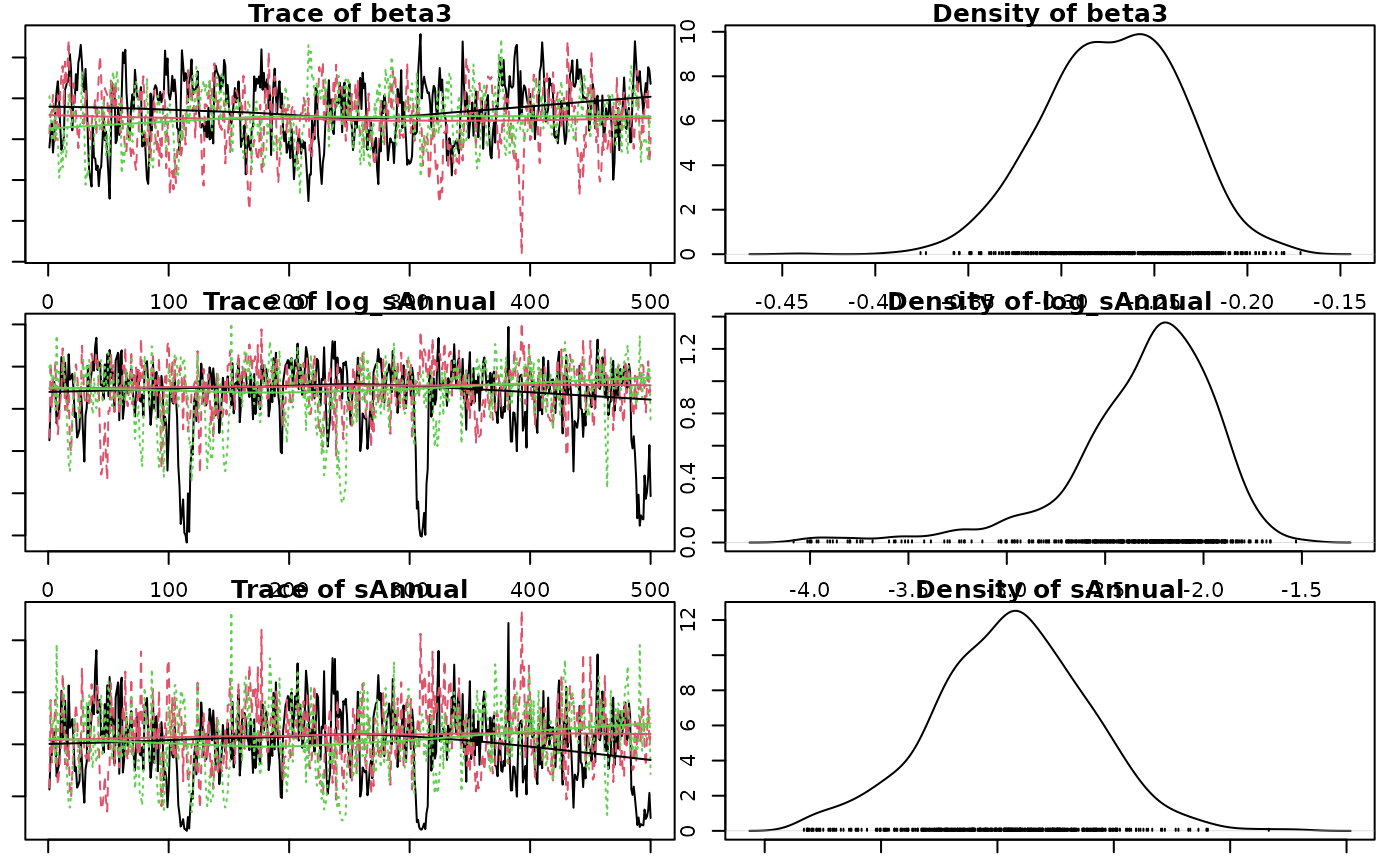
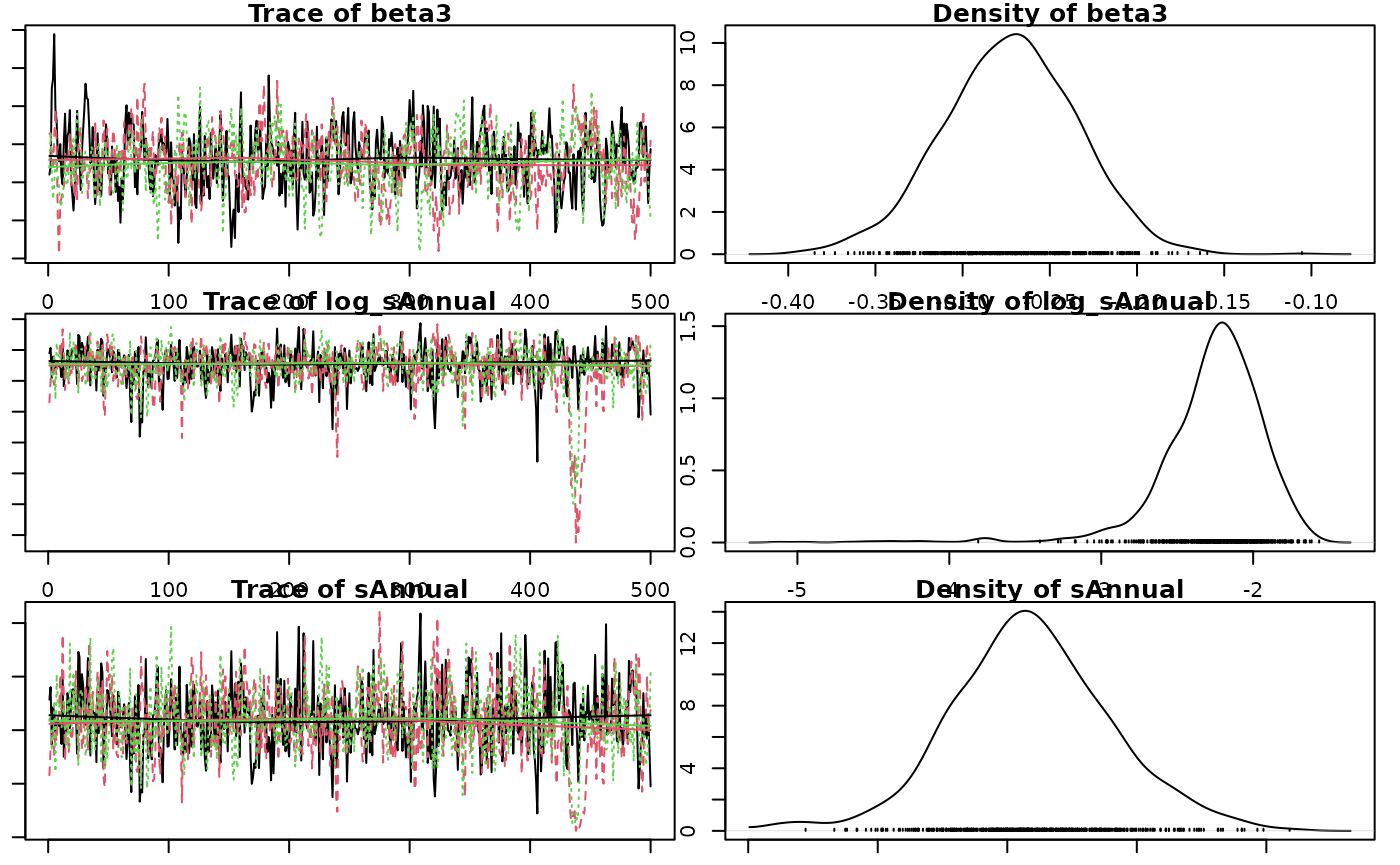
Built site for jmbr@0.0.0.9139: 1f1a369

diff --git a/articles/jmbr.html b/articles/jmbr.html
@@ -24,7 +24,7 @@
 
     <a class="navbar-brand me-2" href="../index.html">jmbr</a>
 
-    <small class="nav-text text-muted me-auto" data-bs-toggle="tooltip" data-bs-placement="bottom" title="">0.0.0.9138</small>
+    <small class="nav-text text-muted me-auto" data-bs-toggle="tooltip" data-bs-placement="bottom" title="">0.0.0.9139</small>
 
 
     <button class="navbar-toggler" type="button" data-bs-toggle="collapse" data-bs-target="#navbar" aria-controls="navbar" aria-expanded="false" aria-label="Toggle navigation">
@@ -236,7 +236,7 @@ value and discarding all other values.</p>
 <span><span class="co">#&gt; <span style="color: #00BBBB;">ℹ</span> Please use the `code` argument instead.</span></span>
 <span><span class="co">#&gt; <span style="color: #00BBBB;">ℹ</span> Passing a string to model() is deprecated. Use model(code = ...) or</span></span>
 <span><span class="co">#&gt;   model(mb_code("..."), ...) instead.</span></span>
-<span><span class="co">#&gt; <span style="color: #555555;">This warning is displayed once every 8 hours.</span></span></span>
+<span><span class="co">#&gt; <span style="color: #555555;">This warning is displayed once per session.</span></span></span>
 <span><span class="co">#&gt; <span style="color: #555555;">Call `lifecycle::last_lifecycle_warnings()` to see where this warning was</span></span></span>
 <span><span class="co">#&gt; <span style="color: #555555;">generated.</span></span></span>
 <span></span>
@@ -285,14 +285,14 @@ value and discarding all other values.</p>
 <span><span class="co">#&gt; <span style="color: #949494;"># A tibble: 1 × 8</span></span></span>
 <span><span class="co">#&gt;       n     K nchains niters nthin   ess  rhat converged</span></span>
 <span><span class="co">#&gt;   <span style="color: #949494; font-style: italic;">&lt;int&gt;</span> <span style="color: #949494; font-style: italic;">&lt;int&gt;</span>   <span style="color: #949494; font-style: italic;">&lt;int&gt;</span>  <span style="color: #949494; font-style: italic;">&lt;int&gt;</span> <span style="color: #949494; font-style: italic;">&lt;int&gt;</span> <span style="color: #949494; font-style: italic;">&lt;int&gt;</span> <span style="color: #949494; font-style: italic;">&lt;dbl&gt;</span> <span style="color: #949494; font-style: italic;">&lt;lgl&gt;</span>    </span></span>
-<span><span class="co">#&gt; <span style="color: #BCBCBC;">1</span>    40     6       3    500    10   255  1.02 TRUE</span></span>
+<span><span class="co">#&gt; <span style="color: #BCBCBC;">1</span>    40     6       3    500    10    69  2.23 FALSE</span></span>
 <span><span class="co">#&gt; Warning in value[[3L]](cond): beep() could not play the sound due to the following error:</span></span>
 <span><span class="co">#&gt; Error in play.default(x, rate, ...): no audio drivers are available</span></span>
 <span><span class="va">analysis</span> <span class="op">&lt;-</span> <span class="fu"><a href="https://rdrr.io/pkg/embr/man/reanalyse.html" class="external-link">reanalyse</a></span><span class="op">(</span><span class="va">analysis</span><span class="op">)</span></span>
 <span><span class="co">#&gt; <span style="color: #949494;"># A tibble: 1 × 8</span></span></span>
 <span><span class="co">#&gt;       n     K nchains niters nthin   ess  rhat converged</span></span>
 <span><span class="co">#&gt;   <span style="color: #949494; font-style: italic;">&lt;int&gt;</span> <span style="color: #949494; font-style: italic;">&lt;int&gt;</span>   <span style="color: #949494; font-style: italic;">&lt;int&gt;</span>  <span style="color: #949494; font-style: italic;">&lt;int&gt;</span> <span style="color: #949494; font-style: italic;">&lt;int&gt;</span> <span style="color: #949494; font-style: italic;">&lt;int&gt;</span> <span style="color: #949494; font-style: italic;">&lt;dbl&gt;</span> <span style="color: #949494; font-style: italic;">&lt;lgl&gt;</span>    </span></span>
-<span><span class="co">#&gt; <span style="color: #BCBCBC;">1</span>    40     6       3    500    10   255  1.02 TRUE</span></span>
+<span><span class="co">#&gt; <span style="color: #BCBCBC;">1</span>    40     6       3    500    20   413  1.01 TRUE</span></span>
 <span><span class="co">#&gt; Warning in value[[3L]](cond): beep() could not play the sound due to the following error:</span></span>
 <span><span class="co">#&gt; Error in play.default(x, rate, ...): no audio drivers are available</span></span></code></pre></div>
 <p><strong>Analysis Table:</strong></p>
@@ -328,7 +328,7 @@ between- and within-chain estimates for model parameters.
 <div class="sourceCode" id="cb10"><pre class="downlit sourceCode r">
 <code class="sourceCode R"><span><span class="fu"><a href="https://rdrr.io/r/graphics/par.html" class="external-link">par</a></span><span class="op">(</span>mar<span class="op">=</span><span class="fu"><a href="https://rdrr.io/r/base/c.html" class="external-link">c</a></span><span class="op">(</span><span class="fl">1</span>, <span class="fl">1</span>, <span class="fl">1</span>, <span class="fl">1</span><span class="op">)</span><span class="op">)</span></span>
 <span><span class="fu"><a href="https://rdrr.io/r/graphics/plot.default.html" class="external-link">plot</a></span><span class="op">(</span><span class="va">analysis</span><span class="op">)</span></span></code></pre></div>
-<p><img src="jmbr_files/figure-html/unnamed-chunk-11-1.png" class="r-plt" width="700"><img src="jmbr_files/figure-html/unnamed-chunk-11-2.png" class="r-plt" width="700"></p>
+<p><img src="jmbr_files/figure-html/unnamed-chunk-11-1.png" class="r-plt" alt="" width="700"><img src="jmbr_files/figure-html/unnamed-chunk-11-2.png" class="r-plt" alt="" width="700"></p>
 <p><strong>Coefficient Table</strong></p>
 <p>Summary table of the posterior probability distribution.</p>
 <div class="sourceCode" id="cb11"><pre class="downlit sourceCode r">
@@ -336,18 +336,18 @@ between- and within-chain estimates for model parameters.
 <span><span class="co">#&gt; Warning: The `simplify` argument of `coef()` must be TRUE as of mcmcr 0.4.1.</span></span>
 <span><span class="co">#&gt; <span style="color: #00BBBB;">ℹ</span> The deprecated feature was likely used in the <span style="color: #0000BB;">base</span> package.</span></span>
 <span><span class="co">#&gt;   Please report the issue to the authors.</span></span>
-<span><span class="co">#&gt; <span style="color: #555555;">This warning is displayed once every 8 hours.</span></span></span>
+<span><span class="co">#&gt; <span style="color: #555555;">This warning is displayed once per session.</span></span></span>
 <span><span class="co">#&gt; <span style="color: #555555;">Call `lifecycle::last_lifecycle_warnings()` to see where this warning was</span></span></span>
 <span><span class="co">#&gt; <span style="color: #555555;">generated.</span></span></span>
 <span><span class="co">#&gt; <span style="color: #949494;"># A tibble: 6 × 7</span></span></span>
 <span><span class="co">#&gt;   term        estimate     sd  zscore   lower   upper   pvalue</span></span>
 <span><span class="co">#&gt;   <span style="color: #949494; font-style: italic;">&lt;term&gt;</span>         <span style="color: #949494; font-style: italic;">&lt;dbl&gt;</span>  <span style="color: #949494; font-style: italic;">&lt;dbl&gt;</span>   <span style="color: #949494; font-style: italic;">&lt;dbl&gt;</span>   <span style="color: #949494; font-style: italic;">&lt;dbl&gt;</span>   <span style="color: #949494; font-style: italic;">&lt;dbl&gt;</span>    <span style="color: #949494; font-style: italic;">&lt;dbl&gt;</span></span></span>
-<span><span class="co">#&gt; <span style="color: #BCBCBC;">1</span> alpha         4.26   0.038<span style="text-decoration: underline;">4</span> 111.     4.19    4.34   0.000<span style="text-decoration: underline;">666</span></span></span>
-<span><span class="co">#&gt; <span style="color: #BCBCBC;">2</span> beta1         1.19   0.070<span style="text-decoration: underline;">9</span>  16.8    1.06    1.34   0.000<span style="text-decoration: underline;">666</span></span></span>
-<span><span class="co">#&gt; <span style="color: #BCBCBC;">3</span> beta2        -<span style="color: #BB0000;">0.018</span><span style="color: #BB0000; text-decoration: underline;">5</span> 0.030<span style="text-decoration: underline;">2</span>  -<span style="color: #BB0000;">0.627</span> -<span style="color: #BB0000;">0.080</span><span style="color: #BB0000; text-decoration: underline;">0</span>  0.039<span style="text-decoration: underline;">5</span> 0.536   </span></span>
-<span><span class="co">#&gt; <span style="color: #BCBCBC;">4</span> beta3        -<span style="color: #BB0000;">0.271</span>  0.036<span style="text-decoration: underline;">5</span>  -<span style="color: #BB0000;">7.46</span>  -<span style="color: #BB0000;">0.345</span>  -<span style="color: #BB0000;">0.206</span>  0.000<span style="text-decoration: underline;">666</span></span></span>
-<span><span class="co">#&gt; <span style="color: #BCBCBC;">5</span> log_sAnnual  -<span style="color: #BB0000;">2.24</span>   0.379   -<span style="color: #BB0000;">6.10</span>  -<span style="color: #BB0000;">3.31</span>   -<span style="color: #BB0000;">1.78</span>   0.000<span style="text-decoration: underline;">666</span></span></span>
-<span><span class="co">#&gt; <span style="color: #BCBCBC;">6</span> sAnnual       0.106  0.033<span style="text-decoration: underline;">1</span>   3.20   0.036<span style="text-decoration: underline;">7</span>  0.169  0.000<span style="text-decoration: underline;">666</span></span></span></code></pre></div>
+<span><span class="co">#&gt; <span style="color: #BCBCBC;">1</span> alpha         4.26   0.041<span style="text-decoration: underline;">2</span> 104.     4.18    4.34   0.000<span style="text-decoration: underline;">666</span></span></span>
+<span><span class="co">#&gt; <span style="color: #BCBCBC;">2</span> beta1         1.19   0.073<span style="text-decoration: underline;">2</span>  16.3    1.06    1.34   0.000<span style="text-decoration: underline;">666</span></span></span>
+<span><span class="co">#&gt; <span style="color: #BCBCBC;">3</span> beta2        -<span style="color: #BB0000;">0.018</span><span style="color: #BB0000; text-decoration: underline;">2</span> 0.031<span style="text-decoration: underline;">1</span>  -<span style="color: #BB0000;">0.586</span> -<span style="color: #BB0000;">0.080</span><span style="color: #BB0000; text-decoration: underline;">7</span>  0.042<span style="text-decoration: underline;">1</span> 0.547   </span></span>
+<span><span class="co">#&gt; <span style="color: #BCBCBC;">4</span> beta3        -<span style="color: #BB0000;">0.272</span>  0.038<span style="text-decoration: underline;">2</span>  -<span style="color: #BB0000;">7.14</span>  -<span style="color: #BB0000;">0.352</span>  -<span style="color: #BB0000;">0.202</span>  0.000<span style="text-decoration: underline;">666</span></span></span>
+<span><span class="co">#&gt; <span style="color: #BCBCBC;">5</span> log_sAnnual  -<span style="color: #BB0000;">2.22</span>   0.361   -<span style="color: #BB0000;">6.27</span>  -<span style="color: #BB0000;">3.05</span>   -<span style="color: #BB0000;">1.75</span>   0.000<span style="text-decoration: underline;">666</span></span></span>
+<span><span class="co">#&gt; <span style="color: #BCBCBC;">6</span> sAnnual       0.109  0.031<span style="text-decoration: underline;">2</span>   3.50   0.047<span style="text-decoration: underline;">4</span>  0.173  0.000<span style="text-decoration: underline;">666</span></span></span></code></pre></div>
 <p>The estimate is the <strong>median</strong> by default.</p>
 <p>The zscore is <span class="math inline">mean / sd</span>.</p>
 <div class="sourceCode" id="cb12"><pre class="downlit sourceCode r">
@@ -355,12 +355,12 @@ between- and within-chain estimates for model parameters.
 <span><span class="co">#&gt; <span style="color: #949494;"># A tibble: 6 × 5</span></span></span>
 <span><span class="co">#&gt;   term        estimate   lower   upper svalue</span></span>
 <span><span class="co">#&gt;   <span style="color: #949494; font-style: italic;">&lt;term&gt;</span>         <span style="color: #949494; font-style: italic;">&lt;dbl&gt;</span>   <span style="color: #949494; font-style: italic;">&lt;dbl&gt;</span>   <span style="color: #949494; font-style: italic;">&lt;dbl&gt;</span>  <span style="color: #949494; font-style: italic;">&lt;dbl&gt;</span></span></span>
-<span><span class="co">#&gt; <span style="color: #BCBCBC;">1</span> alpha         4.26    4.19    4.34   10.6  </span></span>
+<span><span class="co">#&gt; <span style="color: #BCBCBC;">1</span> alpha         4.26    4.18    4.34   10.6  </span></span>
 <span><span class="co">#&gt; <span style="color: #BCBCBC;">2</span> beta1         1.19    1.06    1.34   10.6  </span></span>
-<span><span class="co">#&gt; <span style="color: #BCBCBC;">3</span> beta2        -<span style="color: #BB0000;">0.018</span><span style="color: #BB0000; text-decoration: underline;">5</span> -<span style="color: #BB0000;">0.080</span><span style="color: #BB0000; text-decoration: underline;">0</span>  0.039<span style="text-decoration: underline;">5</span>  0.899</span></span>
-<span><span class="co">#&gt; <span style="color: #BCBCBC;">4</span> beta3        -<span style="color: #BB0000;">0.271</span>  -<span style="color: #BB0000;">0.345</span>  -<span style="color: #BB0000;">0.206</span>  10.6  </span></span>
-<span><span class="co">#&gt; <span style="color: #BCBCBC;">5</span> log_sAnnual  -<span style="color: #BB0000;">2.24</span>   -<span style="color: #BB0000;">3.31</span>   -<span style="color: #BB0000;">1.78</span>   10.6  </span></span>
-<span><span class="co">#&gt; <span style="color: #BCBCBC;">6</span> sAnnual       0.106   0.036<span style="text-decoration: underline;">7</span>  0.169  10.6</span></span></code></pre></div>
+<span><span class="co">#&gt; <span style="color: #BCBCBC;">3</span> beta2        -<span style="color: #BB0000;">0.018</span><span style="color: #BB0000; text-decoration: underline;">2</span> -<span style="color: #BB0000;">0.080</span><span style="color: #BB0000; text-decoration: underline;">7</span>  0.042<span style="text-decoration: underline;">1</span>  0.870</span></span>
+<span><span class="co">#&gt; <span style="color: #BCBCBC;">4</span> beta3        -<span style="color: #BB0000;">0.272</span>  -<span style="color: #BB0000;">0.352</span>  -<span style="color: #BB0000;">0.202</span>  10.6  </span></span>
+<span><span class="co">#&gt; <span style="color: #BCBCBC;">5</span> log_sAnnual  -<span style="color: #BB0000;">2.22</span>   -<span style="color: #BB0000;">3.05</span>   -<span style="color: #BB0000;">1.75</span>   10.6  </span></span>
+<span><span class="co">#&gt; <span style="color: #BCBCBC;">6</span> sAnnual       0.109   0.047<span style="text-decoration: underline;">4</span>  0.173  10.6</span></span></code></pre></div>
 <p>The s-value is the <strong>suprisal</strong> value, which is a
 measure of directionality with respect to zero.</p>
 <p>The s-value is zero (unsurprising) when <em>p-value</em> = 1.0 and
@@ -389,7 +389,7 @@ including the random effect of <code>Annual</code> held constant.</p>
 <span>  <span class="fu"><a href="https://ggplot2.tidyverse.org/reference/geom_path.html" class="external-link">geom_line</a></span><span class="op">(</span><span class="fu"><a href="https://ggplot2.tidyverse.org/reference/aes.html" class="external-link">aes</a></span><span class="op">(</span>y <span class="op">=</span> <span class="va">lower</span><span class="op">)</span>, linetype <span class="op">=</span> <span class="st">"dotted"</span><span class="op">)</span> <span class="op">+</span></span>
 <span>  <span class="fu"><a href="https://ggplot2.tidyverse.org/reference/geom_path.html" class="external-link">geom_line</a></span><span class="op">(</span><span class="fu"><a href="https://ggplot2.tidyverse.org/reference/aes.html" class="external-link">aes</a></span><span class="op">(</span>y <span class="op">=</span> <span class="va">upper</span><span class="op">)</span>, linetype <span class="op">=</span> <span class="st">"dotted"</span><span class="op">)</span> <span class="op">+</span></span>
 <span>  <span class="fu"><a href="https://ggplot2.tidyverse.org/reference/expand_limits.html" class="external-link">expand_limits</a></span><span class="op">(</span>y <span class="op">=</span> <span class="fl">0</span><span class="op">)</span></span></code></pre></div>
-<p><img src="jmbr_files/figure-html/unnamed-chunk-14-1.png" class="r-plt" width="700"></p>
+<p><img src="jmbr_files/figure-html/unnamed-chunk-14-1.png" class="r-plt" alt="" width="700"></p>
 <div class="section level3">
 <h3 id="predict">Predict<a class="anchor" aria-label="anchor" href="#predict"></a>
 </h3>

diff --git a/news/index.html b/news/index.html
@@ -7,7 +7,7 @@
 
     <a class="navbar-brand me-2" href="../index.html">jmbr</a>
 
-    <small class="nav-text text-muted me-auto" data-bs-toggle="tooltip" data-bs-placement="bottom" title="">0.0.0.9138</small>
+    <small class="nav-text text-muted me-auto" data-bs-toggle="tooltip" data-bs-placement="bottom" title="">0.0.0.9139</small>
 
 
     <button class="navbar-toggler" type="button" data-bs-toggle="collapse" data-bs-target="#navbar" aria-controls="navbar" aria-expanded="false" aria-label="Toggle navigation">
@@ -33,6 +33,13 @@
       <small>Source: <a href="https://github.com/poissonconsulting/jmbr/blob/main/NEWS.md" class="external-link"><code>NEWS.md</code></a></small>
     </div>
 
+    <div class="section level2">
+<h2 class="pkg-version" data-toc-text="0.0.0.9139" id="jmbr-0009139-2025-12-05">jmbr 0.0.0.9139 (2025-12-05)<a class="anchor" aria-label="anchor" href="#jmbr-0009139-2025-12-05"></a></h2>
+<div class="section level3">
+<h3 id="continuous-integration-0-0-0-9139">Continuous integration<a class="anchor" aria-label="anchor" href="#continuous-integration-0-0-0-9139"></a></h3>
+<ul><li>Use installed packages as source for dependencies.</li>
+</ul></div>
+</div>
     <div class="section level2">
 <h2 class="pkg-version" data-toc-text="0.0.0.9138" id="jmbr-0009138-2025-11-18">jmbr 0.0.0.9138 (2025-11-18)<a class="anchor" aria-label="anchor" href="#jmbr-0009138-2025-11-18"></a></h2>
 <div class="section level3">

diff --git a/404.html b/404.html
@@ -24,7 +24,7 @@
 
     <a class="navbar-brand me-2" href="https://poissonconsulting.github.io/jmbr/index.html">jmbr</a>
 
-    <small class="nav-text text-muted me-auto" data-bs-toggle="tooltip" data-bs-placement="bottom" title="">0.0.0.9138</small>
+    <small class="nav-text text-muted me-auto" data-bs-toggle="tooltip" data-bs-placement="bottom" title="">0.0.0.9139</small>
 
 
     <button class="navbar-toggler" type="button" data-bs-toggle="collapse" data-bs-target="#navbar" aria-controls="navbar" aria-expanded="false" aria-label="Toggle navigation">

diff --git a/articles/index.html b/articles/index.html
@@ -7,7 +7,7 @@
 
     <a class="navbar-brand me-2" href="../index.html">jmbr</a>
 
-    <small class="nav-text text-muted me-auto" data-bs-toggle="tooltip" data-bs-placement="bottom" title="">0.0.0.9138</small>
+    <small class="nav-text text-muted me-auto" data-bs-toggle="tooltip" data-bs-placement="bottom" title="">0.0.0.9139</small>
 
 
     <button class="navbar-toggler" type="button" data-bs-toggle="collapse" data-bs-target="#navbar" aria-controls="navbar" aria-expanded="false" aria-label="Toggle navigation">

diff --git a/reference/index.html b/reference/index.html
@@ -7,7 +7,7 @@
 
     <a class="navbar-brand me-2" href="../index.html">jmbr</a>
 
-    <small class="nav-text text-muted me-auto" data-bs-toggle="tooltip" data-bs-placement="bottom" title="">0.0.0.9138</small>
+    <small class="nav-text text-muted me-auto" data-bs-toggle="tooltip" data-bs-placement="bottom" title="">0.0.0.9139</small>
 
 
     <button class="navbar-toggler" type="button" data-bs-toggle="collapse" data-bs-target="#navbar" aria-controls="navbar" aria-expanded="false" aria-label="Toggle navigation">

diff --git a/reference/is.jmb_analysis.html b/reference/is.jmb_analysis.html
@@ -7,7 +7,7 @@
 
     <a class="navbar-brand me-2" href="../index.html">jmbr</a>
 
-    <small class="nav-text text-muted me-auto" data-bs-toggle="tooltip" data-bs-placement="bottom" title="">0.0.0.9138</small>
+    <small class="nav-text text-muted me-auto" data-bs-toggle="tooltip" data-bs-placement="bottom" title="">0.0.0.9139</small>
 
 
     <button class="navbar-toggler" type="button" data-bs-toggle="collapse" data-bs-target="#navbar" aria-controls="navbar" aria-expanded="false" aria-label="Toggle navigation">

diff --git a/reference/is.jmb_code.html b/reference/is.jmb_code.html
@@ -7,7 +7,7 @@
 
     <a class="navbar-brand me-2" href="../index.html">jmbr</a>
 
-    <small class="nav-text text-muted me-auto" data-bs-toggle="tooltip" data-bs-placement="bottom" title="">0.0.0.9138</small>
+    <small class="nav-text text-muted me-auto" data-bs-toggle="tooltip" data-bs-placement="bottom" title="">0.0.0.9139</small>
 
 
     <button class="navbar-toggler" type="button" data-bs-toggle="collapse" data-bs-target="#navbar" aria-controls="navbar" aria-expanded="false" aria-label="Toggle navigation">

diff --git a/reference/is.jmb_model.html b/reference/is.jmb_model.html
@@ -7,7 +7,7 @@
 
     <a class="navbar-brand me-2" href="../index.html">jmbr</a>
 
-    <small class="nav-text text-muted me-auto" data-bs-toggle="tooltip" data-bs-placement="bottom" title="">0.0.0.9138</small>
+    <small class="nav-text text-muted me-auto" data-bs-toggle="tooltip" data-bs-placement="bottom" title="">0.0.0.9139</small>
 
 
     <button class="navbar-toggler" type="button" data-bs-toggle="collapse" data-bs-target="#navbar" aria-controls="navbar" aria-expanded="false" aria-label="Toggle navigation">

diff --git a/reference/jmbr-package.html b/reference/jmbr-package.html
@@ -7,7 +7,7 @@
 
     <a class="navbar-brand me-2" href="../index.html">jmbr</a>
 
-    <small class="nav-text text-muted me-auto" data-bs-toggle="tooltip" data-bs-placement="bottom" title="">0.0.0.9138</small>
+    <small class="nav-text text-muted me-auto" data-bs-toggle="tooltip" data-bs-placement="bottom" title="">0.0.0.9139</small>
 
 
     <button class="navbar-toggler" type="button" data-bs-toggle="collapse" data-bs-target="#navbar" aria-controls="navbar" aria-expanded="false" aria-label="Toggle navigation">

diff --git a/index.html b/index.html
@@ -26,7 +26,7 @@
 
     <a class="navbar-brand me-2" href="index.html">jmbr</a>
 
-    <small class="nav-text text-muted me-auto" data-bs-toggle="tooltip" data-bs-placement="bottom" title="">0.0.0.9138</small>
+    <small class="nav-text text-muted me-auto" data-bs-toggle="tooltip" data-bs-placement="bottom" title="">0.0.0.9139</small>
 
 
     <button class="navbar-toggler" type="button" data-bs-toggle="collapse" data-bs-target="#navbar" aria-controls="navbar" aria-expanded="false" aria-label="Toggle navigation">

diff --git a/CODE_OF_CONDUCT.html b/CODE_OF_CONDUCT.html
@@ -7,7 +7,7 @@
 
     <a class="navbar-brand me-2" href="index.html">jmbr</a>
 
-    <small class="nav-text text-muted me-auto" data-bs-toggle="tooltip" data-bs-placement="bottom" title="">0.0.0.9138</small>
+    <small class="nav-text text-muted me-auto" data-bs-toggle="tooltip" data-bs-placement="bottom" title="">0.0.0.9139</small>
 
 
     <button class="navbar-toggler" type="button" data-bs-toggle="collapse" data-bs-target="#navbar" aria-controls="navbar" aria-expanded="false" aria-label="Toggle navigation">

diff --git a/CONTRIBUTING.html b/CONTRIBUTING.html
@@ -7,7 +7,7 @@
 
     <a class="navbar-brand me-2" href="index.html">jmbr</a>
 
-    <small class="nav-text text-muted me-auto" data-bs-toggle="tooltip" data-bs-placement="bottom" title="">0.0.0.9138</small>
+    <small class="nav-text text-muted me-auto" data-bs-toggle="tooltip" data-bs-placement="bottom" title="">0.0.0.9139</small>
 
 
     <button class="navbar-toggler" type="button" data-bs-toggle="collapse" data-bs-target="#navbar" aria-controls="navbar" aria-expanded="false" aria-label="Toggle navigation">
